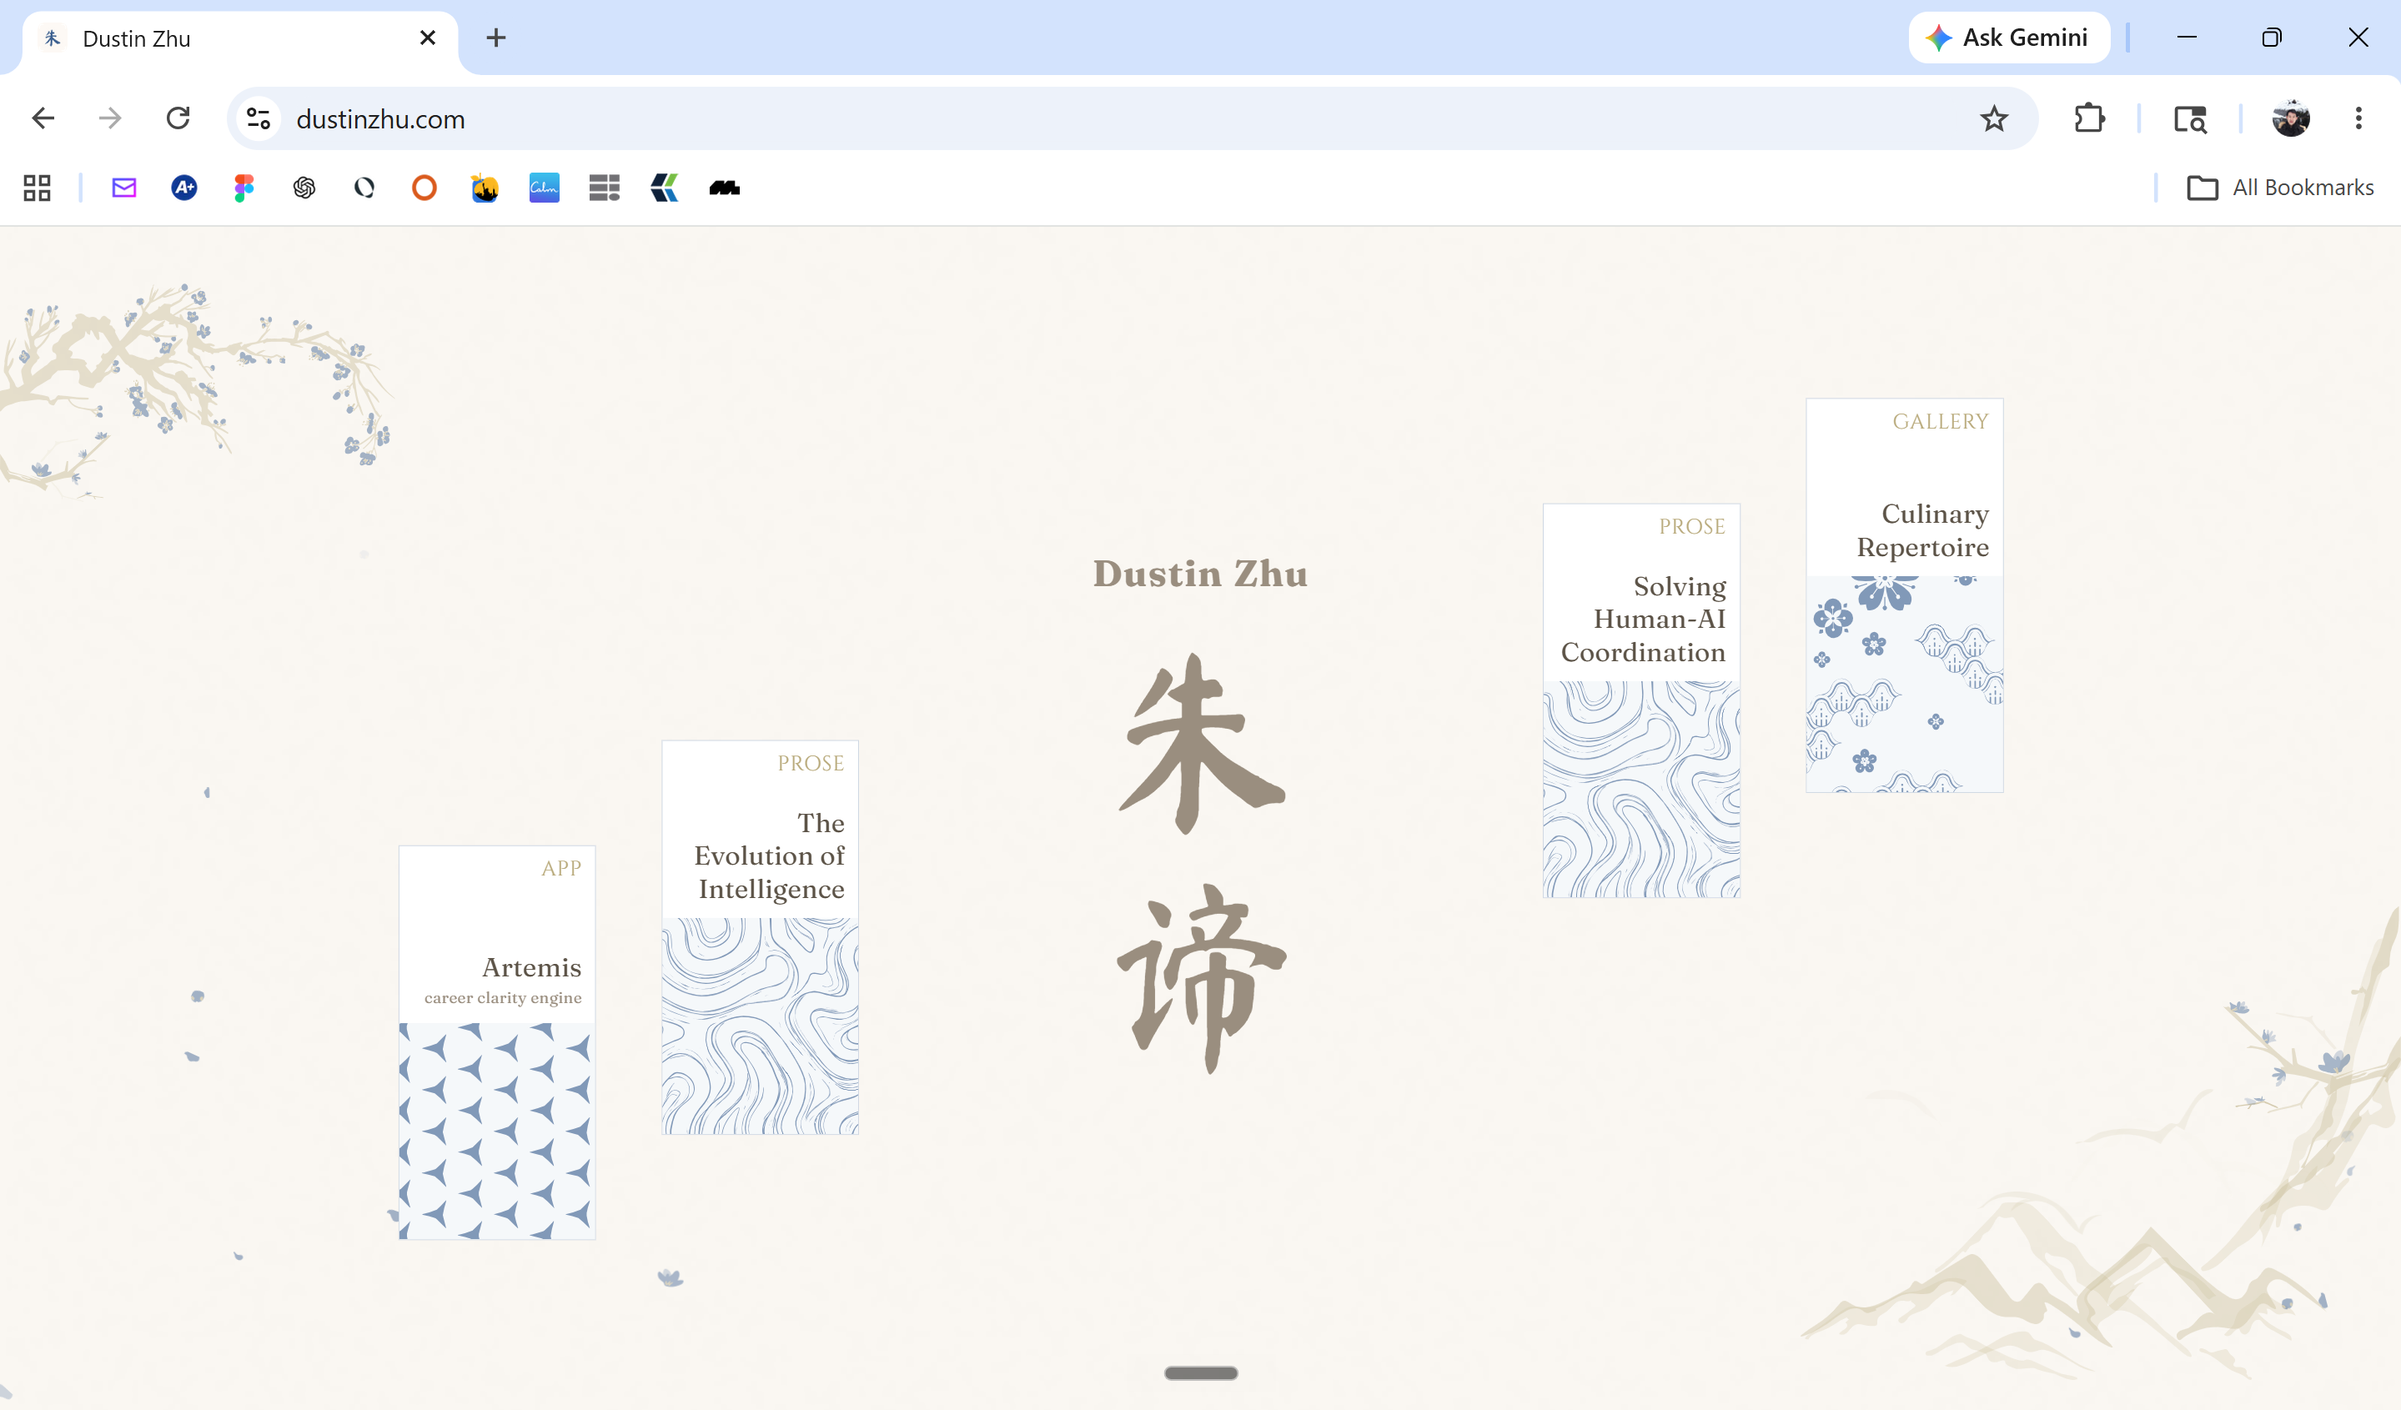
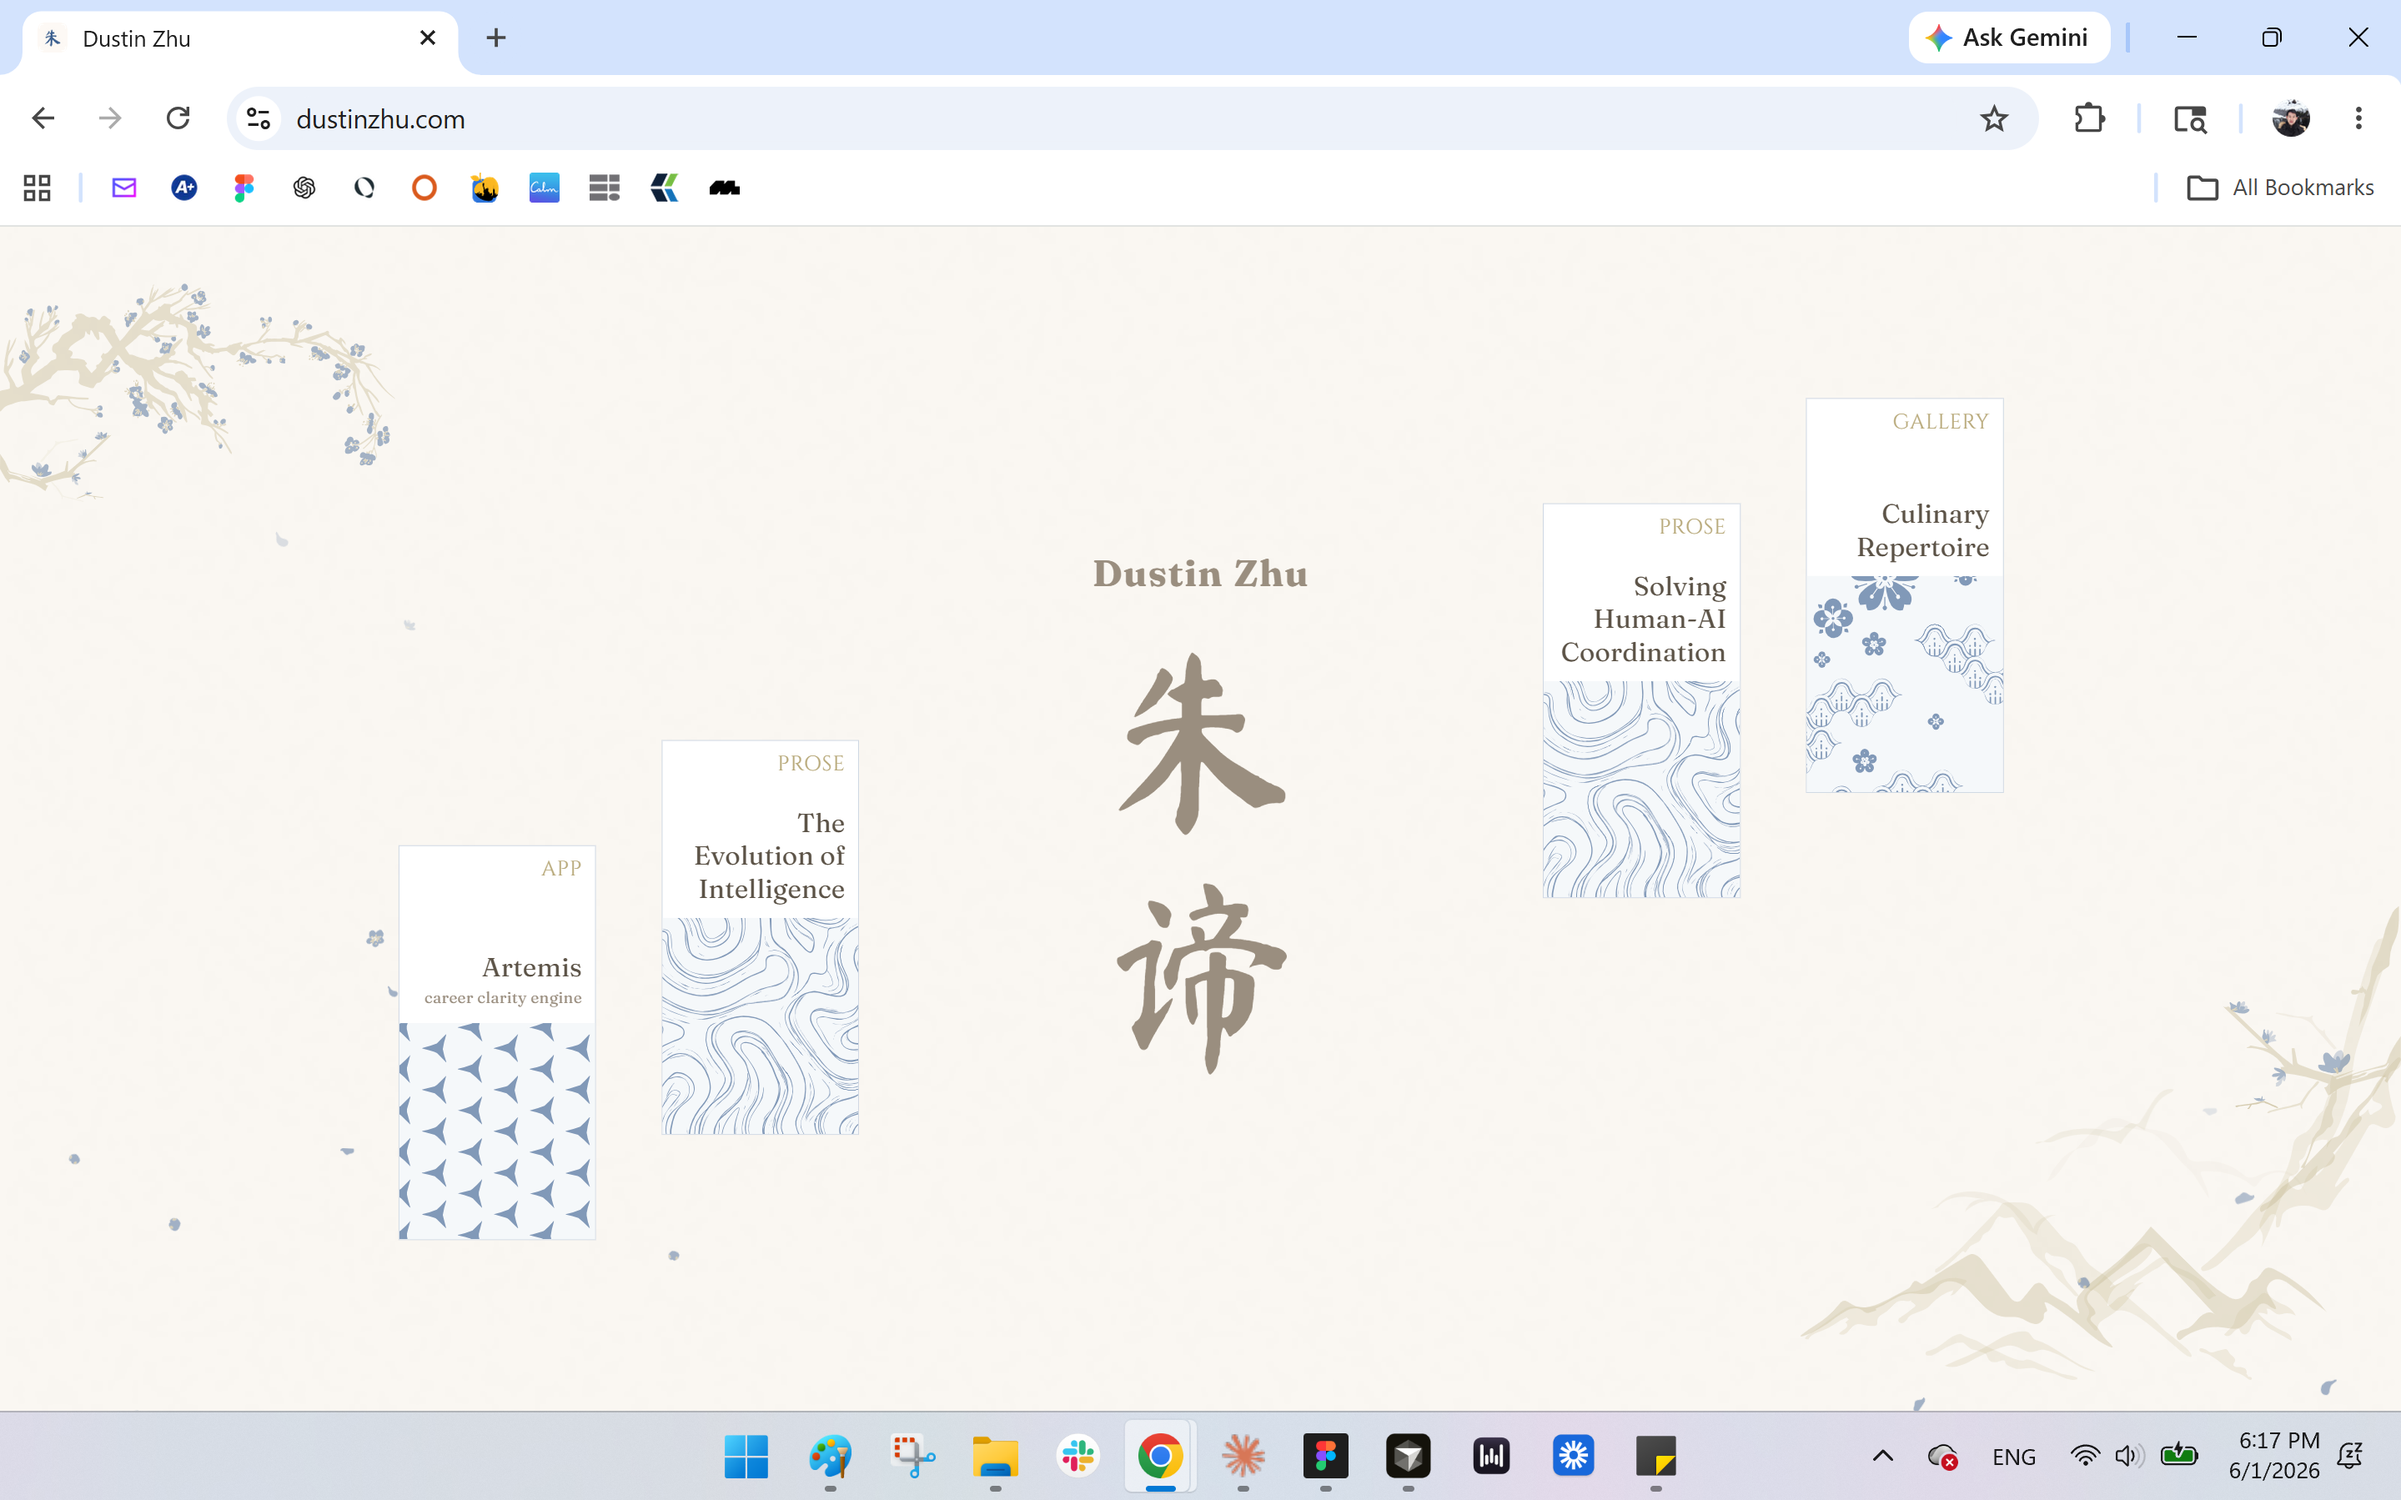
README: restore section-header underlines; update hero image
Section headers back to h2/h3 (matching the reference README's style), and
swap in the updated hero screenshot.

diff --git a/README.md b/README.md
@@ -11,7 +11,7 @@
 
 ---
 
-### Table of Contents
+## Table of Contents
 1. [Project Overview](#project-overview)
 2. [Portfolio Experience](#portfolio-experience)
    - [Homepage](#homepage)
@@ -24,7 +24,7 @@
 
 ---
 
-### Project Overview
+## Project Overview
 
 Welcome to my personal portfolio. Currently it's a collection of artifacts: **Artemis** (a career clarity engine), a body of **thought essays**, and a
 **culinary repertoire**. The design language deliberately fuses a chinese calligraphic aura with greek/aegean motifs.
@@ -41,9 +41,9 @@ This project showcases:
 
 ---
 
-### Portfolio Experience
+## Portfolio Experience
 
-#### Homepage
+### Homepage
 
 The homepage is the thesis of the whole site: **an intersection of Chinese and Greek
 aesthetics.** It starts off in a parchment world and threads in aegean blue
@@ -51,7 +51,7 @@ accents as the second cultural voice.
 
 It's also where most of the micro-animation lives (typewriter intro, name ⇄ bio hover swap, ambient life, scale-to-fit composition)
 
-#### Artemis: Career Clarity Engine
+### Artemis: Career Clarity Engine
 
 **Artemis** is a career clarity engine that helps people figure out what professional work fits them.
 It lives as its own project; there will be a separated dedicated repo for this artifact.
@@ -59,7 +59,7 @@ It lives as its own project; there will be a separated dedicated repo for this a
 > 🚧 **Coming soon.** The Artemis repository is in progress — this section will link to it
 > once it's public.
 
-#### Essays
+### Essays
 
 The essays are personally written long-form pieces on the current landscape (and future predictions) of AI.
 
@@ -69,7 +69,7 @@ Every essay started out in google docs then moved into figma where the visual st
   <img src="docs/images/essays.png" alt="Essay layout" width="560" />
 </p>
 
-#### Culinary Repertoire
+### Culinary Repertoire
 
 I've always enjoyed cooking as a hobby and wanted to share my kitchen creations - my focus has primarily been elevated comfort food.
 
@@ -79,7 +79,7 @@ I've always enjoyed cooking as a hobby and wanted to share my kitchen creations 
 
 ---
 
-### Design & Development Process
+## Design & Development Process
 
 I had the same pipeline for every surface on this site:
 
@@ -95,7 +95,7 @@ I had the same pipeline for every surface on this site:
 
 ---
 
-### Tech Stack
+## Tech Stack
 
 | Layer | Choice |
 |---|---|
@@ -108,7 +108,7 @@ I had the same pipeline for every surface on this site:
 
 ---
 
-### Project Structure
+## Project Structure
 
 ```
 portfolio/
